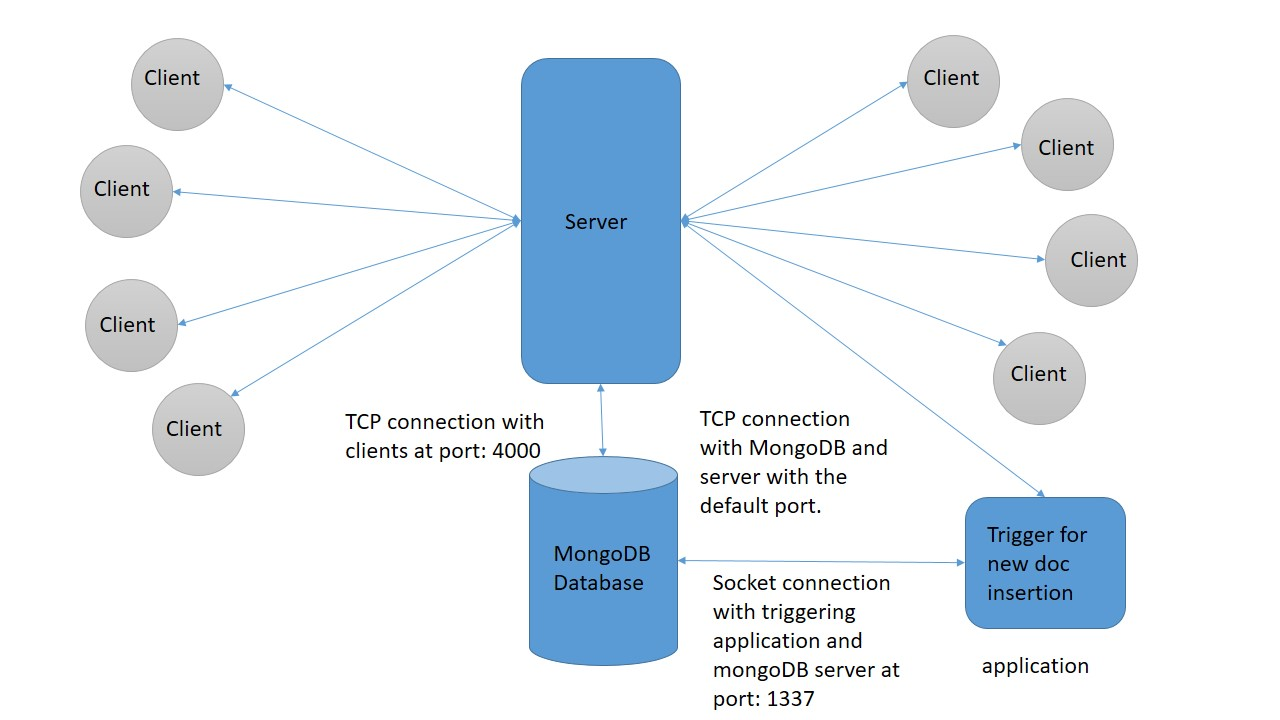
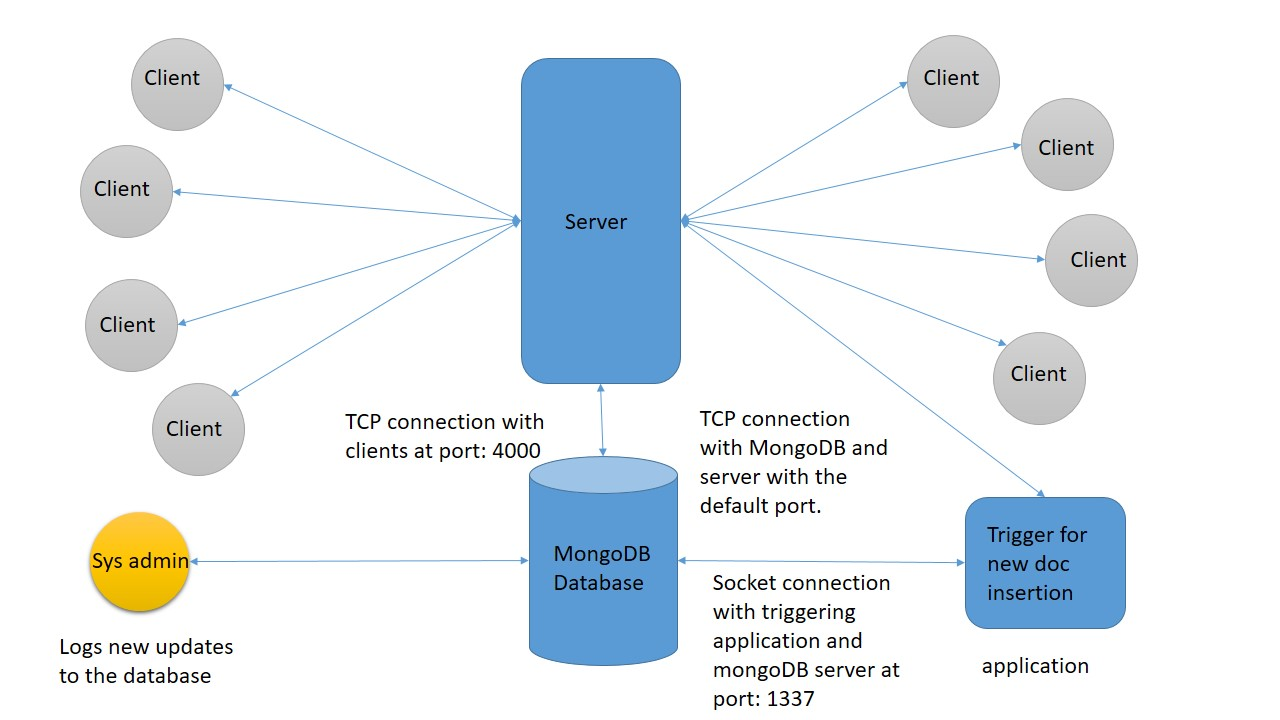
updated image

Changed region(s): [[0.0625, 0.7028, 0.1562, 0.8556], [0.0312, 0.8861, 0.1875, 0.9472]]

diff --git a/README.md b/README.md
@@ -44,13 +44,28 @@ The set of attributes for these fields would be the following:
 **characters:**
 -   ```
     {
-        "characterName":"<type: string>",
-        "location":"<type: boolean>",
-        "relationships":"<type: boolean>",
-        "job":"<type: boolean>",
-        "assignment":"<type: boolean>"
+        "characterName":<type: string>,
+        "location":<type: boolean>,
+        "relationships":<type: boolean>,
+        "job":<type: boolean>,
+        "assignment":<type: boolean>
     }
     ```
+    For the user all we need to store is whether the user has subscribed to certain aspects of the character or not for example location, relationships and so on. Hence they are simply boolean values. 
+
+**notifications:**
+-   ```
+    {
+        "characterName":<type: string>,
+        "location":<type: string>,
+        "relationships":<type: string>,
+        "job":<type: string>,
+        "assignment":<type: string>
+    }
+    ```
+    For the user notifications we need to store all the information about the character that the user has subscribed for and hence all the data that had been updated or logged by the system administrator will be stored here for persistence of notifications. So once the user has registered to the application he/she will never miss a notification whether he/she is offline or online.
+
+- **GSCharacterLog:** As far as the character log goes, the system administrator will be able to update 
 
 `DBOps.js` is custom module written specifically for handling all database operations other than the database connection which is done on `app.js` itself. There are two objects namely `read` and `insert` that are exported outside the module using the `exports` object of nodejs. This design descision was taken to separate database related code to another module for reasons of maintainability and writing cleaner code. The basic structure of the object is as follows:
 
